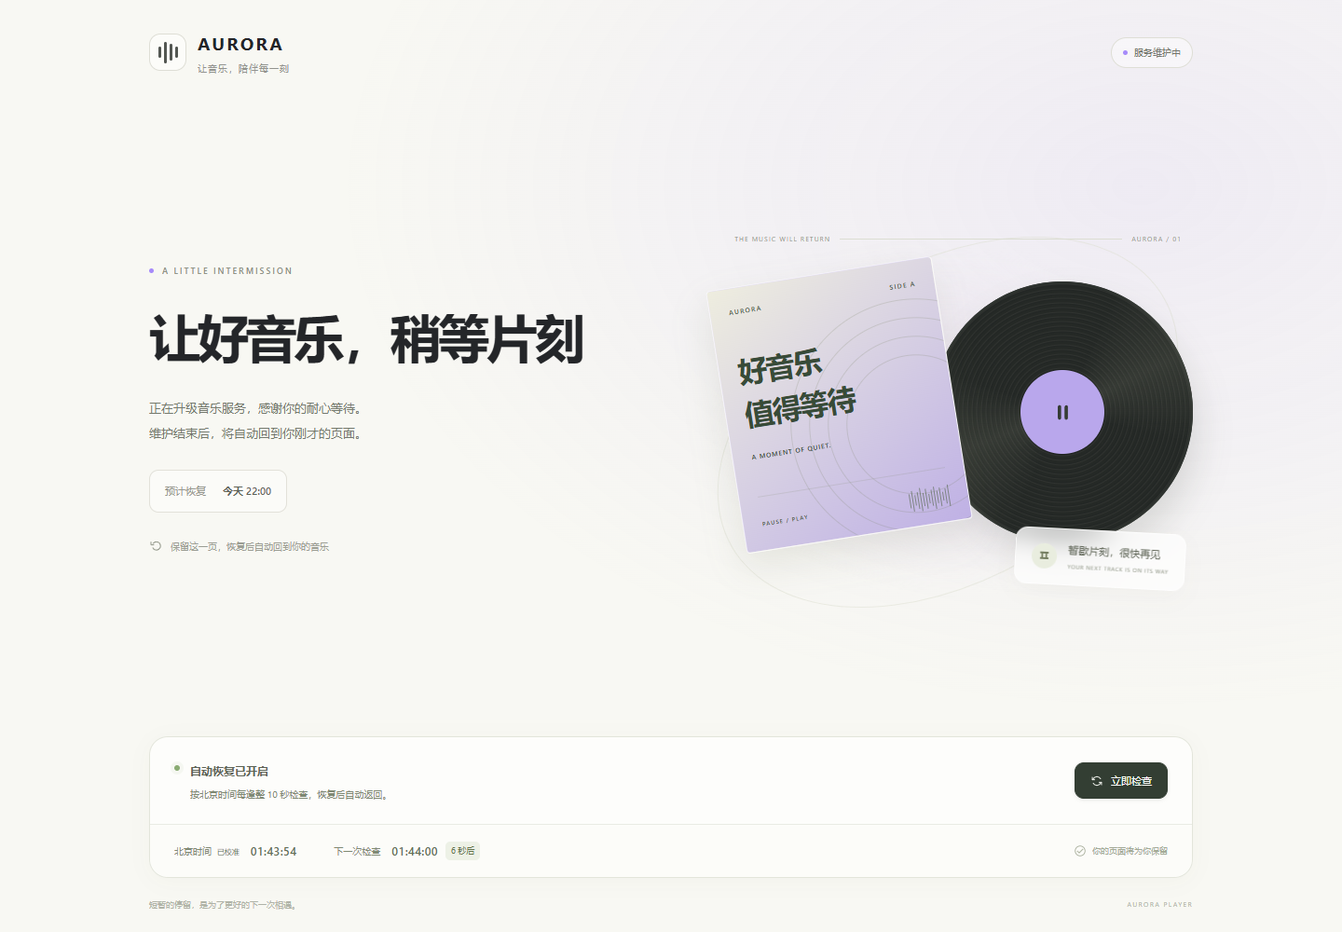
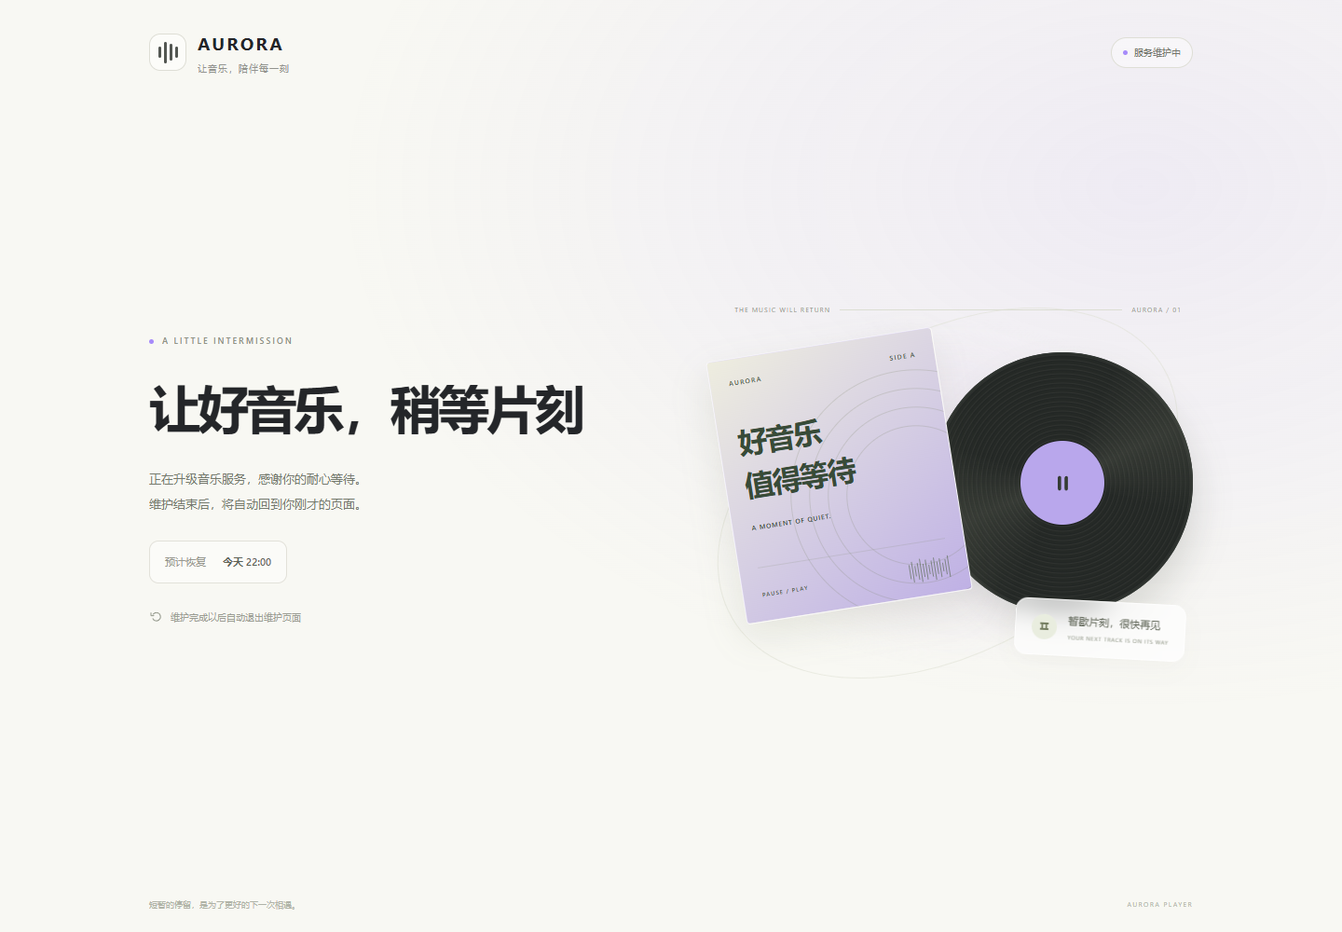
fix(maintenance): simplify page and clarify automatic recovery

diff --git a/src/components/maintenance/MaintenancePage.vue b/src/components/maintenance/MaintenancePage.vue
@@ -1,5 +1,5 @@
 <template>
-  <section class="maintenance-page" :class="{ 'is-custom': settings.customHtml.trim(), 'is-recovering': recovering }" :style="pageStyle" :aria-label="scopeLabel ? scopeLabel + '维护中' : '网站维护'">
+  <section ref="pageRef" class="maintenance-page" tabindex="-1" :class="{ 'is-custom': settings.customHtml.trim(), 'is-recovering': recovering }" :style="pageStyle" :aria-label="scopeLabel ? scopeLabel + '维护中' : '网站维护'">
     <header v-if="!settings.customHtml.trim()" class="maintenance-header">
       <div class="maintenance-brand"><span class="brand-mark" aria-hidden="true"><i /><i /><i /><i /></span><span>AURORA<small>让音乐，陪伴每一刻</small></span></div>
       <span class="maintenance-header-state"><i />{{ recovering ? '准备就绪' : scopeLabel || '服务维护中' }}</span>
@@ -12,7 +12,7 @@
         <h1 id="maintenance-title" ref="titleRef" tabindex="-1">{{ recovering ? '一切就绪，欢迎回来' : settings.title }}</h1>
         <p class="maintenance-message">{{ recovering ? '正在回到你的音乐空间，请稍候。' : settings.message }}</p>
         <div v-if="settings.estimatedReturn && !recovering" class="maintenance-estimate"><span>预计恢复</span><strong>{{ settings.estimatedReturn }}</strong></div>
-        <p class="maintenance-return-hint"><svg viewBox="0 0 20 20" aria-hidden="true"><path d="M5.5 7.5a5.5 5.5 0 1 1-.6 6M2.5 5.5v4h4" /></svg>保留这一页，恢复后自动回到你的音乐</p>
+        <p class="maintenance-return-hint"><svg viewBox="0 0 20 20" aria-hidden="true"><path d="M5.5 7.5a5.5 5.5 0 1 1-.6 6M2.5 5.5v4h4" /></svg>维护完成以后自动退出维护页面</p>
       </div>
       <div class="maintenance-artwork" aria-hidden="true">
         <div class="artwork-halo" /><div class="artwork-orbit" />
@@ -22,54 +22,35 @@
         <div class="artwork-note"><span class="note-mark">Ⅱ</span><span>{{ recovering ? '下一首，即将开始' : '暂歇片刻，很快再见' }}<small>YOUR NEXT TRACK IS ON ITS WAY</small></span></div>
       </div>
     </main>
-    <footer class="maintenance-status">
-      <div class="maintenance-status-main">
-        <div class="maintenance-status-copy" role="status" aria-live="polite"><span class="maintenance-indicator" :class="{ offline }" /><div><strong>{{ recovering ? '维护已结束，正在返回…' : offline ? '暂时无法连接，正在自动重试…' : '自动恢复已开启' }}</strong><p>{{ offline ? '连接恢复后会继续检查，无需反复刷新。' : '按北京时间每逢整 10 秒检查，恢复后自动返回。' }}</p></div></div>
-        <div class="maintenance-actions"><button v-if="!recovering" ref="checkRef" class="maintenance-check" type="button" :disabled="checking" @click="$emit('check')"><svg :class="checking && 'is-checking'" viewBox="0 0 20 20" aria-hidden="true"><path d="M15.5 7a6 6 0 0 0-10.3-1L3 8m0-4v4h4m-2.5 5a6 6 0 0 0 10.3 1l2.2-2m0 4v-4h-4" /></svg>{{ checking ? '正在检查' : '立即检查' }}</button><button v-if="canReturn && !recovering" class="maintenance-back" type="button" @click="$emit('return')">返回可用页面 <span aria-hidden="true">↗</span></button></div>
-      </div>
-      <div class="maintenance-timing">
-        <div><span>北京时间 <small v-if="clockSynced">已校准</small></span><time class="maintenance-clock">{{ beijingTime }}</time></div>
-        <div><span>下一次检查</span><div class="next-check-value"><time class="maintenance-next-time">{{ nextTime }}</time><small v-if="!recovering && nextCheckAt" class="maintenance-countdown">{{ checking ? '检查中' : secondsLeft + ' 秒后' }}</small></div></div>
-        <p class="maintenance-timing-note"><svg viewBox="0 0 20 20" aria-hidden="true"><path d="m5.5 10 3 3 6-6" /><circle cx="10" cy="10" r="7.5" /></svg>{{ recovering ? '你的音乐空间已准备好' : scopeLabel ? scopeLabel + '维护中' : '你的页面将为你保留' }}</p>
-      </div>
-    </footer>
+    <button v-if="canReturn && !recovering" class="maintenance-back" type="button" @click="$emit('return')">返回可用页面 <span aria-hidden="true">↗</span></button>
     <p v-if="!settings.customHtml.trim()" class="maintenance-signoff">短暂的停留，是为了更好的下一次相遇。<span>AURORA PLAYER</span></p>
   </section>
 </template>
 
 <script setup>
-import { computed, nextTick, onBeforeUnmount, onMounted, ref, watch } from 'vue';
-import { formatBeijingTime } from '../../utils/maintenance.js';
-const props = defineProps({ settings: { type: Object, required: true }, offline: Boolean, checking: Boolean, recovering: Boolean,
-  scopeLabel: { type: String, default: '' }, canReturn: Boolean, nextCheckAt: { type: Number, default: 0 },
-  clockOffset: { type: Number, default: 0 }, clockSynced: Boolean });
-defineEmits(['check', 'return']);
+import { computed, nextTick, onMounted, ref, watch } from 'vue';
+const props = defineProps({ settings: { type: Object, required: true }, recovering: Boolean,
+  scopeLabel: { type: String, default: '' }, canReturn: Boolean });
+defineEmits(['return']);
 const titleRef = ref(null);
-const checkRef = ref(null);
-const currentTime = ref(Date.now());
-const beijingTime = computed(() => formatBeijingTime(currentTime.value + props.clockOffset));
-const nextTime = computed(() => props.nextCheckAt ? formatBeijingTime(props.nextCheckAt) : '—');
-const secondsLeft = computed(() => Math.max(0, Math.ceil((props.nextCheckAt - currentTime.value - props.clockOffset) / 1000)));
+const pageRef = ref(null);
 const pageStyle = computed(() => ({ '--maintenance-accent': props.settings.accentColor,
   backgroundImage: props.settings.backgroundUrl ? 'linear-gradient(115deg,#faf9f4ed,#f8f7fff0), url(' + JSON.stringify(props.settings.backgroundUrl) + ')' : undefined,
 }));
-const clockTimer = setInterval(() => { currentTime.value = Date.now(); }, 250);
-onBeforeUnmount(() => clearInterval(clockTimer));
-function focusPage() { (titleRef.value || checkRef.value)?.focus({ preventScroll: true }); }
+function focusPage() { (titleRef.value || pageRef.value)?.focus({ preventScroll: true }); }
 onMounted(focusPage);
 watch(() => Boolean(props.settings.customHtml.trim()), () => { void nextTick(focusPage); });
 </script>
 
 <style scoped>
-.maintenance-page{position:fixed;inset:0;z-index:10020;display:flex;flex-direction:column;overflow:auto;box-sizing:border-box;padding:32px 48px 22px;background:#f8f8f3;background-image:radial-gradient(ellipse at 85% 20%,color-mix(in srgb,var(--maintenance-accent) 12%,transparent),transparent 50%);background-size:cover;background-position:center;color:#242629;font-family:Inter,-apple-system,BlinkMacSystemFont,'Segoe UI','Microsoft YaHei',sans-serif}
+.maintenance-page{position:fixed;inset:0;z-index:10020;display:flex;flex-direction:column;overflow:auto;box-sizing:border-box;outline:none;padding:32px 48px 22px;background:#f8f8f3;background-image:radial-gradient(ellipse at 85% 20%,color-mix(in srgb,var(--maintenance-accent) 12%,transparent),transparent 50%);background-size:cover;background-position:center;color:#242629;font-family:Inter,-apple-system,BlinkMacSystemFont,'Segoe UI','Microsoft YaHei',sans-serif}
 .maintenance-header{display:flex;align-items:center;justify-content:space-between;width:min(1120px,100%);margin:0 auto;gap:20px}.maintenance-brand{display:flex;align-items:center;gap:12px;font-size:19px;font-weight:750;letter-spacing:.12em}.maintenance-brand small{display:block;margin-top:5px;color:#92938e;font-size:10px;font-weight:400;letter-spacing:.1em}.brand-mark{display:flex;align-items:center;justify-content:center;gap:3px;width:40px;height:40px;border:1px solid #deded5;border-radius:12px;background:#ffffff85}.brand-mark i{width:3px;border-radius:3px;background:#535752}.brand-mark i:nth-child(1),.brand-mark i:nth-child(4){height:12px}.brand-mark i:nth-child(2){height:23px}.brand-mark i:nth-child(3){height:18px}.maintenance-header-state{display:flex;align-items:center;gap:7px;border:1px solid #deded5;border-radius:100px;padding:8px 12px;background:#ffffff70;color:#73766d;font-size:10px}.maintenance-header-state>i,.maintenance-eyebrow>span{width:5px;height:5px;flex-shrink:0;border-radius:50%;background:var(--maintenance-accent)}
 .maintenance-content{display:grid;grid-template-columns:1.05fr 1fr;align-items:center;gap:42px;width:min(1120px,100%);box-sizing:border-box;flex:1 0 auto;margin:38px auto 22px;min-height:390px;padding:16px 0}.maintenance-copy{position:relative;z-index:1;min-width:0;padding:12px 0 20px}.maintenance-eyebrow{display:flex;align-items:center;gap:9px;margin:0 0 24px;color:#8b8e82;font-size:9px;font-weight:600;letter-spacing:.22em}.maintenance-copy h1{max-width:600px;margin:0;outline:none;font-size:clamp(32px,4.1vw,55px);font-weight:650;letter-spacing:-.06em;line-height:1.45;overflow-wrap:anywhere;text-wrap:balance}.maintenance-message{max-width:480px;margin:23px 0 0;white-space:pre-wrap;overflow-wrap:anywhere;font-size:13px;line-height:2.1;color:#74796d}.maintenance-estimate{display:inline-flex;align-items:center;gap:18px;max-width:100%;box-sizing:border-box;margin-top:26px;padding:12px 16px;border:1px solid #e2e1d9;border-radius:10px;background:#ffffff70;font-size:11px;line-height:1.8;overflow-wrap:anywhere}.maintenance-estimate>span{flex-shrink:0;color:#96978e}.maintenance-estimate strong{color:#5d6257;font-weight:550}.maintenance-return-hint{display:flex;align-items:flex-start;gap:7px;margin:27px 0 0;color:#9b9d93;font-size:10px;line-height:1.8}.maintenance-return-hint svg{width:16px;height:16px;flex-shrink:0;fill:none;stroke:#929789;stroke-width:1.3;stroke-linecap:round;stroke-linejoin:round}
 .maintenance-artwork{position:relative;height:390px;min-width:0;isolation:isolate}.artwork-halo{position:absolute;inset:15px 0 0;border-radius:50%;background:radial-gradient(ellipse,color-mix(in srgb,var(--maintenance-accent) 19%,#f4f1e7) 0%,transparent 68%);filter:blur(8px)}.artwork-orbit{position:absolute;inset:35px -5px 15px;border:1px solid #dcded080;border-radius:50%;transform:rotate(-30deg)}.artwork-caption{position:absolute;top:3px;left:34px;right:12px;display:flex;align-items:center;gap:10px;color:#999b91;font-size:7px;letter-spacing:.16em}.artwork-caption i{height:1px;background:#dbddd2;flex:1}.artwork-record{position:absolute;top:54px;right:0;display:grid;place-items:center;width:280px;height:280px;border-radius:50%;background:repeating-radial-gradient(circle,#232725 0px,#232725 1px,#303330 2px,#252926 3px,#252926 5px);box-shadow:12px 18px 34px #38433224,inset 0 0 0 2px #2f3430;transform:rotate(14deg)}.artwork-record:before{content:'';position:absolute;inset:0;border-radius:50%;background:conic-gradient(from 10deg,transparent 0deg,#e8edc917 40deg,transparent 80deg,transparent 180deg,#e8edc917 225deg,transparent 265deg)}.record-label{display:grid;place-items:center;width:90px;height:90px;border-radius:50%;background:color-mix(in srgb,var(--maintenance-accent) 70%,#e3e7cc);box-shadow:0 0 0 1px #00000020;transform:rotate(-14deg)}.record-label svg{width:29px;height:29px;fill:none;stroke:#353c34;stroke-width:3;stroke-linecap:round}.artwork-sleeve{position:absolute;top:44px;left:24px;display:flex;flex-direction:column;width:245px;height:285px;box-sizing:border-box;padding:20px 20px 16px;overflow:hidden;border:1px solid #ffffffbd;border-radius:4px;background:linear-gradient(145deg,#eeeddf,color-mix(in srgb,var(--maintenance-accent) 55%,#dddfcb));box-shadow:-5px 16px 36px #6e755a22;transform:rotate(-9deg)}.sleeve-heading,.sleeve-bottom{position:relative;z-index:1;display:flex;align-items:center;justify-content:space-between;color:#4e5a4a;font-size:7px;font-weight:600;letter-spacing:.18em}.sleeve-orbits{position:absolute;width:270px;height:270px;top:40px;left:65px;transform:rotate(27deg)}.sleeve-orbits i{position:absolute;inset:0;border:1px solid #69765230;border-radius:50%}.sleeve-orbits i:nth-child(2){inset:20px}.sleeve-orbits i:nth-child(3){inset:40px}.sleeve-orbits i:nth-child(4){inset:60px}.sleeve-type{position:relative;margin-top:36px;font-size:31px;line-height:1.5;letter-spacing:-.04em;font-weight:650;color:#384b38}.sleeve-type>span{display:block;margin-top:17px;font-size:7px;letter-spacing:.12em;font-weight:500}.sleeve-bottom{margin-top:auto;padding-top:18px;border-top:1px solid #65754e25;font-size:6px}.sleeve-bottom>div{display:flex;align-items:center;gap:2px;height:23px}.sleeve-bottom i{width:1px;background:#5264489c}.artwork-note{position:absolute;right:8px;bottom:9px;display:flex;align-items:center;gap:12px;padding:14px 17px;border:1px solid #ffffffbd;border-radius:13px;background:#ffffffb8;box-shadow:0 8px 24px #59614808;backdrop-filter:blur(12px);color:#646a5c;font-size:11px;transform:rotate(3deg)}.note-mark{display:grid;place-items:center;width:27px;height:27px;flex-shrink:0;border-radius:50%;background:#e9eddf;color:#747d60;font-size:11px;font-weight:700}.artwork-note small{display:block;margin-top:5px;color:#a2a79a;font-size:6px;letter-spacing:.1em}
-.maintenance-status{box-sizing:border-box;width:min(1120px,100%);flex-shrink:0;margin:0 auto;border:1px solid #e3e5db;border-radius:20px;background:#ffffffb0;box-shadow:0 4px 24px #333c2708}.maintenance-status-main{display:flex;align-items:center;justify-content:space-between;gap:22px;padding:23px 26px}.maintenance-status-copy{display:flex;align-items:flex-start;gap:11px;min-width:0}.maintenance-status-copy strong{font-size:12px;font-weight:550;color:#5d6355;line-height:1.6}.maintenance-status-copy p{margin:5px 0 0;font-size:10px;color:#7e8873;line-height:1.8}.maintenance-indicator{display:block;width:6px;height:6px;flex-shrink:0;margin-top:7px;border-radius:50%;background:#8aab73;box-shadow:0 0 0 4px #8aab7312}.maintenance-indicator.offline{background:#d4a465;box-shadow:0 0 0 4px #d4a46512}.maintenance-actions{display:flex;flex-shrink:0;gap:9px;align-items:center}.maintenance-actions button{display:flex;align-items:center;justify-content:center;gap:8px;min-height:39px;padding:0 16px;border:1px solid #dce0d4;border-radius:10px;background:transparent;color:#7e8477;font:500 11px/1.5 system-ui,sans-serif;cursor:pointer;white-space:nowrap}.maintenance-actions .maintenance-check{border-color:#333e33;background:#333e33;color:#fafbf6;box-shadow:0 2px 4px #333e3312}.maintenance-actions .maintenance-check:hover{background:#475346}.maintenance-actions .maintenance-back:hover{background:#f2f4ed}.maintenance-actions button:disabled{opacity:.55;cursor:wait}.maintenance-actions button:focus-visible{outline:2px solid var(--maintenance-accent);outline-offset:3px}.maintenance-actions svg{width:14px;height:14px;fill:none;stroke:currentColor;stroke-width:1.3;stroke-linecap:round;stroke-linejoin:round}.is-checking{animation:maintenance-spin 1.2s linear infinite}.maintenance-timing{display:flex;align-items:center;gap:40px;padding:18px 26px;border-top:1px solid #e9ebe4;background:#fafbf665;border-radius:0 0 20px 20px}.maintenance-timing>div{display:flex;align-items:center;gap:12px}.maintenance-timing>div>span{color:#7f8974;font-size:10px;white-space:nowrap}.maintenance-timing>div>span>small{margin-left:3px;font-size:8px;color:#70845d}.maintenance-timing time{font-size:12px;color:#626e56;font-weight:500;font-variant-numeric:tabular-nums;letter-spacing:.04em}.next-check-value{display:flex;align-items:center;gap:8px}.maintenance-countdown{padding:3px 6px;border-radius:5px;background:#edf1e6;color:#64734c;font-size:9px;white-space:nowrap}.maintenance-timing-note{display:flex;align-items:center;gap:6px;min-width:0;margin:0 0 0 auto;color:#a3aa96;font-size:9px}.maintenance-timing-note svg{width:14px;height:14px;fill:none;stroke:currentColor;stroke-width:1.2;stroke-linecap:round;stroke-linejoin:round;flex-shrink:0}.maintenance-signoff{display:flex;align-items:center;justify-content:space-between;gap:16px;width:min(1120px,100%);margin:20px auto 0;color:#b0b3a7;font-size:9px;line-height:1.8}.maintenance-signoff>span{font-size:7px;letter-spacing:.2em;white-space:nowrap}
-.maintenance-custom{display:block;width:100%;flex:1;min-height:260px;border:0;border-radius:16px 16px 0 0;background:white}.maintenance-page.is-custom{gap:16px;padding:20px}.is-custom .maintenance-status{width:100%}.is-custom .maintenance-timing{background:#fafbf6}.is-recovering .record-label{background:#b9cba3}
-@keyframes maintenance-spin{to{transform:rotate(360deg)}}
+.maintenance-signoff{display:flex;align-items:center;justify-content:space-between;gap:16px;width:min(1120px,100%);margin:20px auto 0;color:#b0b3a7;font-size:9px;line-height:1.8}.maintenance-signoff>span{font-size:7px;letter-spacing:.2em;white-space:nowrap}
+.maintenance-back{align-self:center;display:inline-flex;align-items:center;gap:8px;margin:0 auto 18px;padding:9px 14px;border:1px solid #dce0d4;border-radius:9px;background:#ffffff70;color:#7e8477;font:500 11px/1.5 system-ui,sans-serif;cursor:pointer}.maintenance-back:hover{background:#f2f4ed}.maintenance-back:focus-visible{outline:2px solid var(--maintenance-accent);outline-offset:3px}
+.maintenance-custom{display:block;width:100%;flex:1;min-height:260px;border:0;border-radius:16px 16px 0 0;background:white}.maintenance-page.is-custom{gap:16px;padding:20px}.is-recovering .record-label{background:#b9cba3}
 @media(min-width:1500px){.maintenance-content{margin-top:auto;margin-bottom:auto}.maintenance-page{padding-top:44px;padding-bottom:28px}}
-@media(max-width:1000px){.maintenance-page{padding:28px 28px 20px}.maintenance-content{gap:20px;grid-template-columns:1fr .9fr;min-height:360px}.maintenance-artwork{transform:scale(.84);transform-origin:center right;margin-left:-45px}.maintenance-timing{gap:22px}.maintenance-timing-note{display:none}.maintenance-status-main{gap:16px}.maintenance-actions button{padding:0 12px}}
-@media(max-width:680px){.maintenance-page{padding:23px 20px 18px}.maintenance-brand{font-size:16px;gap:9px}.brand-mark{width:34px;height:34px;border-radius:10px}.maintenance-brand small{font-size:8px}.maintenance-header-state{padding:7px 9px;font-size:9px}.maintenance-content{display:flex;flex-direction:column-reverse;gap:0;min-height:0;flex:1 0 auto;margin:6px auto 18px;padding:0;justify-content:center}.maintenance-artwork{width:350px;height:390px;max-width:100%;flex:none;transform:scale(.5);transform-origin:top center;margin:12px 0 -183px}.artwork-sleeve{left:10px}.artwork-note{right:-4px}.maintenance-copy{padding:0;width:100%;text-align:center}.maintenance-eyebrow{justify-content:center;margin:12px 0 15px;font-size:7px;letter-spacing:.18em}.maintenance-copy h1{font-size:30px;line-height:1.5;letter-spacing:-.05em}.maintenance-message{font-size:11px;line-height:2;margin:14px auto 0;max-width:380px}.maintenance-estimate{margin-top:17px;padding:8px 12px;font-size:10px;gap:12px}.maintenance-return-hint{justify-content:center;font-size:8px;margin-top:17px}.maintenance-return-hint svg{width:13px;height:13px}.maintenance-status{border-radius:15px}.maintenance-status-main{flex-direction:column;align-items:stretch;gap:15px;padding:17px}.maintenance-status-copy{gap:9px}.maintenance-status-copy strong{font-size:11px}.maintenance-status-copy p{font-size:9px}.maintenance-actions button{min-height:35px;flex:1;font-size:10px}.maintenance-timing{padding:13px 17px;justify-content:space-between;gap:9px;border-radius:0 0 15px 15px}.maintenance-timing>div{align-items:flex-start;flex-direction:column;gap:7px}.maintenance-timing>div>span{font-size:9px}.maintenance-timing time{font-size:11px}.maintenance-countdown{font-size:8px;padding:2px 5px}.maintenance-signoff{font-size:8px;margin-top:15px}.maintenance-signoff>span{font-size:6px}.maintenance-page.is-custom{padding:12px;gap:12px}.maintenance-custom{border-radius:12px;min-height:300px}}
-@media(prefers-reduced-motion:reduce){.is-checking{animation:none}}
+@media(max-width:1000px){.maintenance-page{padding:28px 28px 20px}.maintenance-content{gap:20px;grid-template-columns:1fr .9fr;min-height:360px}.maintenance-artwork{transform:scale(.84);transform-origin:center right;margin-left:-45px}}
+@media(max-width:680px){.maintenance-page{padding:23px 20px 18px}.maintenance-brand{font-size:16px;gap:9px}.brand-mark{width:34px;height:34px;border-radius:10px}.maintenance-brand small{font-size:8px}.maintenance-header-state{padding:7px 9px;font-size:9px}.maintenance-content{display:flex;flex-direction:column-reverse;gap:0;min-height:0;flex:1 0 auto;margin:6px auto 18px;padding:0;justify-content:center}.maintenance-artwork{width:350px;height:390px;max-width:100%;flex:none;transform:scale(.5);transform-origin:top center;margin:12px 0 -183px}.artwork-sleeve{left:10px}.artwork-note{right:-4px}.maintenance-copy{padding:0;width:100%;text-align:center}.maintenance-eyebrow{justify-content:center;margin:12px 0 15px;font-size:7px;letter-spacing:.18em}.maintenance-copy h1{font-size:30px;line-height:1.5;letter-spacing:-.05em}.maintenance-message{font-size:11px;line-height:2;margin:14px auto 0;max-width:380px}.maintenance-estimate{margin-top:17px;padding:8px 12px;font-size:10px;gap:12px}.maintenance-return-hint{justify-content:center;font-size:8px;margin-top:17px}.maintenance-return-hint svg{width:13px;height:13px}.maintenance-signoff{font-size:8px;margin-top:15px}.maintenance-signoff>span{font-size:6px}.maintenance-page.is-custom{padding:12px;gap:12px}.maintenance-custom{border-radius:12px;min-height:300px}}
 </style>

diff --git a/src/MaintenanceGate.vue b/src/MaintenanceGate.vue
@@ -3,10 +3,9 @@
     <App v-if="appAllowed" />
   </div>
   <Transition name="maintenance-fade" @after-leave="restoreFocus">
-    <MaintenancePage v-if="pageVisible" :settings="displaySettings" :offline="offline"
-      :scope-label="displayLabel" :can-return="context && context.key !== 'global'" :checking="checking"
-      :next-check-at="timing.nextCheckAt" :clock-offset="timing.clockOffset" :clock-synced="timing.clockSynced"
-      :recovering="recovering" @check="check" @return="returnToAvailablePage" />
+    <MaintenancePage v-if="pageVisible" :settings="displaySettings"
+      :scope-label="displayLabel" :can-return="context && context.key !== 'global'"
+      :recovering="recovering" @return="returnToAvailablePage" />
   </Transition>
   <Teleport to="body">
     <Transition name="maintenance-dialog" @after-leave="restoreFocus">
@@ -41,7 +40,6 @@ const recovering = ref(false);
 const displayPresentation = ref('page');
 const offline = ref(false);
 const checking = ref(true);
-const timing = ref({ nextCheckAt: 0, clockOffset: 0, clockSynced: false });
 const blocked = computed(() => Boolean(context.value) || recovering.value);
 const pageVisible = computed(() => context.value?.presentation === 'page' || (recovering.value && displayPresentation.value === 'page'));
 const checked = ref(false);
@@ -82,7 +80,6 @@ const poller = createMaintenancePoller({
     syncClock(response.headers.get('X-Maintenance-Server-Time'));
     return response.json();
   },
-  onTiming(value) { timing.value = value; },
   onStatus(value) {
     offline.value = false;
     updateMaintenanceSettings(value);

diff --git a/docs/maintenance-mode.md b/docs/maintenance-mode.md
@@ -32,18 +32,18 @@
 
 ## 页面与提醒内容
 
-不填自定义 HTML 时，使用浅色封套与唱片插画页面，手机端为纵向布局。支持自定义标题、说明、预计恢复时间、六位十六进制主题色和 HTTP(S) 背景图片地址。底部显示北京时间、下一次检查时刻和倒计时。
+不填自定义 HTML 时，使用浅色封套与唱片插画页面，手机端为纵向布局。支持自定义标题、说明、预计恢复时间、六位十六进制主题色和 HTTP(S) 背景图片地址。文案下方显示「维护完成以后自动退出维护页面」，不展示检查状态面板、检查按钮、时钟或倒计时；自动检查在后台运行。
 
 填写自定义 HTML 后，该内容取代默认维护页面主体。支持 HTML、CSS 和图片，最大 100,000 个字符。
 内容在 `sandbox=""` 的 iframe 中展示，不能运行脚本、提交表单或操作父页面。
-底部的自动检查提示和「立即检查」按钮始终保留。后台预览展示当前编辑内容，配置通过自动保存发布；切换预览不会额外提交请求。
+后台预览展示当前编辑内容，配置通过自动保存发布；切换预览不会额外提交请求。自定义 HTML 页面同样在后台持续检查，恢复后自动退出维护页面；独立页面维护仍提供「返回可用页面」。
 
 功能关闭时使用屏幕中央的简洁提醒框，仅显示警告图标、标题、说明、恢复时间和操作按钮。功能提醒不渲染维护页、HTML、图片背景或唱片动画；旧配置中的这些页面字段会保留，但不会显示在提醒框内。「使用默认提醒」会使用功能名称和通用维护说明，也可取消后单独编辑文案。
 
 ## 检测与恢复
 
 - 用户端启动时立即检查，随后统一在北京时间每分钟的 00、10、20、30、40、50 秒检查；不再从每个人进入页面的时刻各自计算 10 秒。
-- 状态接口通过 `X-Maintenance-Server-Time` 响应头提供服务器 Unix 毫秒时间，跨域配置会暴露该头。用户端按请求往返时间估算时钟偏差，显示北京时间并校准检查时刻，设备时区或设备时钟快慢不会影响已校准的安排。
+- 状态接口通过 `X-Maintenance-Server-Time` 响应头提供服务器 Unix 毫秒时间，跨域配置会暴露该头。用户端按请求往返时间估算时钟偏差并校准检查时刻，设备时区或设备时钟快慢不会影响已校准的安排。
 - 手动检查、重新联网和回到标签页会立即检查并重新对齐，保留统一的整 10 秒安排。标签页休眠导致定时器延迟时，会跳过错过的时刻，避免恢复后连续补发请求。
 - 旧版接口或独立状态地址不提供校时头时，先按设备时钟对齐；需要服务器校时的独立状态源应同时返回上述头并通过 `Access-Control-Expose-Headers` 暴露，且禁止缓存。
 - 单次请求 4 秒超时；同一时刻最多一个检查请求，手动检查也复用进行中的请求。
